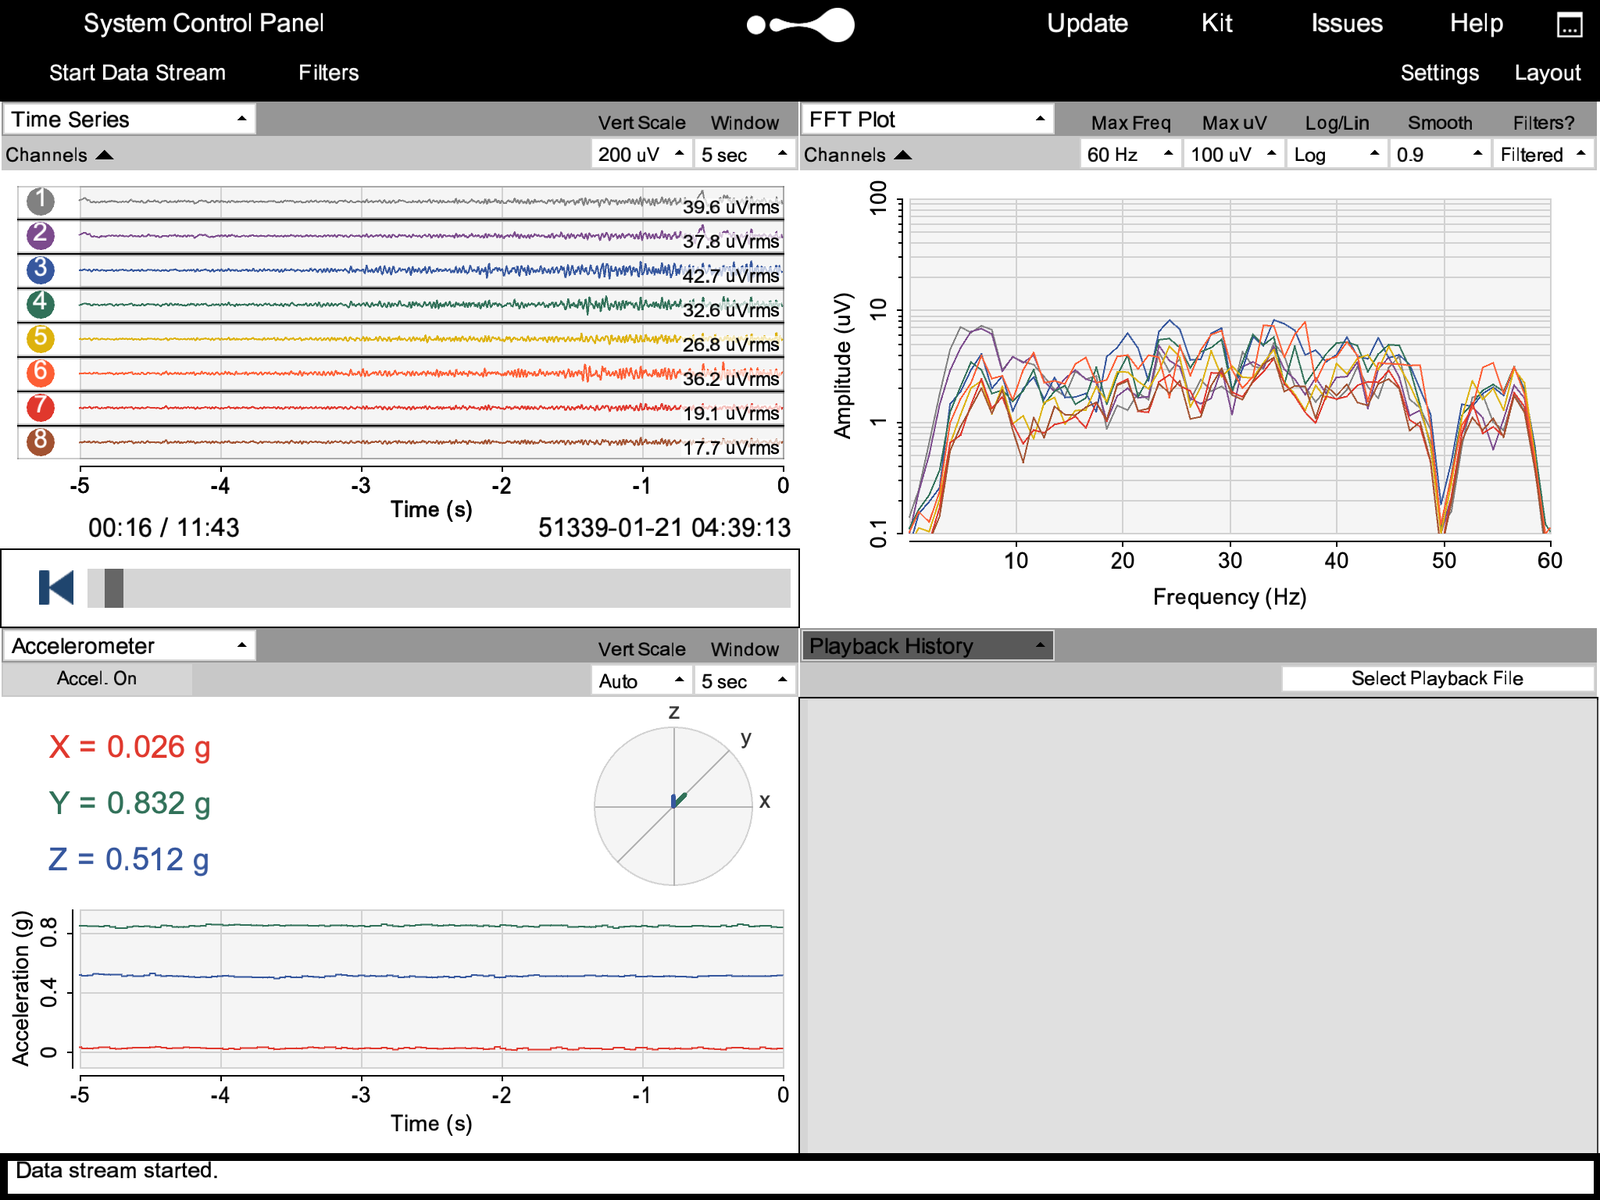
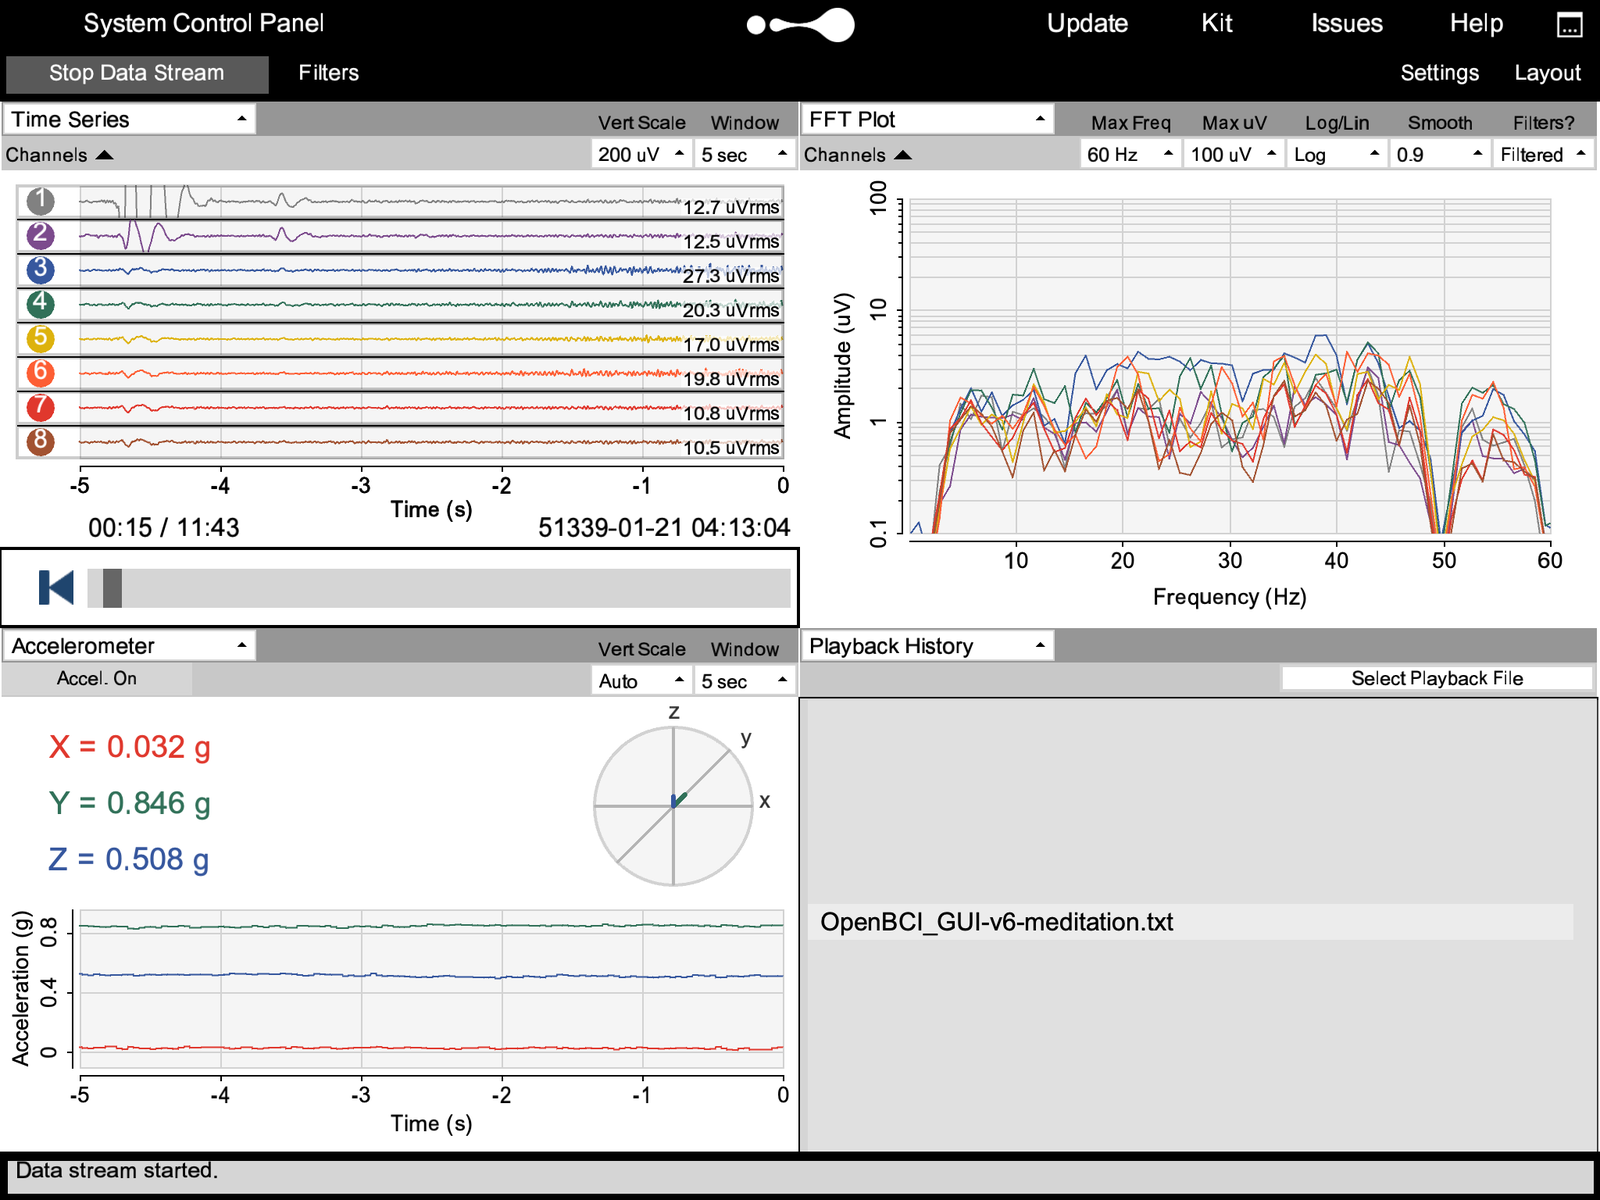
Release 0.2.2 Beta: centred layered starter page, 12 s cycle
The starter page is now centred on the window and painted UNDER the interface.
An open data-source sub-panel covers it rather than pushing it aside, so the page
no longer slides right or shrinks when a sub-panel opens. The copy moved to a
fixed right-hand column, clear of the panel at its widest, so nothing is
truncated.

Cycle is 12 s (was 13.5 s), with every stage threshold rescaled.

README: screenshots and the starter GIF regenerated from this build; the fork
note moved to the end; starter section describes the layering.

diff --git a/README.md b/README.md
@@ -6,16 +6,8 @@
 
 <p align="center">
   Visualise and record EEG from OpenBCI-compatible hardware<br>
-  <strong>v0.2.1 Beta &middot; November 2026</strong>
+  <strong>v0.2.2 Beta &middot; November 2026</strong>
 </p>
-
-> **Fork note.** This is a BROADMIND build of the OpenBCI GUI. The application is upstream
-> [`OpenBCI/OpenBCI_GUI`](https://github.com/OpenBCI/OpenBCI_GUI), MIT-licensed, and nothing in the
-> acquisition, protocol or board-support code was changed. This build differs in presentation:
-> the BROADMIND brand system - black, white and one grey, set in Geometria where it is licensed and
-> installed and Arial otherwise - with functional colours (channel identity, error states)
-> deliberately preserved. Every upstream author credit and the licence are unchanged; see
-> [LICENSE](LICENSE).
 
 ---
 
@@ -70,8 +62,9 @@ this is the running app (13.5 s cycle):
   <img alt="The BROADMIND starter page: the headband lowers onto a head, eight contacts ink in, and a USB-C cable draws itself into a laptop" src="docs/design/starter-animation.gif" width="780">
 </p>
 
-Layout is responsive: with a data-source sub-panel open, the copy stacks above the schematic rather
-than overlapping it.
+The schematic is centred on the window and painted **underneath** the interface: an open
+data-source sub-panel covers it rather than pushing it aside, so the page never slides or shrinks.
+The copy sits in a fixed right-hand column, clear of the panel at its widest, so nothing is truncated.
 
 ## What are we doing?
 
@@ -220,3 +213,15 @@ MIT
 <p align="center">
   BROADMIND · <a href="https://broadmind.me">broadmind.me</a>
 </p>
+
+---
+
+## Fork note
+
+This is a BROADMIND build of the OpenBCI GUI. The application is upstream
+[`OpenBCI/OpenBCI_GUI`](https://github.com/OpenBCI/OpenBCI_GUI), MIT-licensed, and nothing in the
+acquisition, protocol or board-support code was changed. This build differs in presentation:
+the BROADMIND brand system - black, white and one grey, set in Geometria where it is licensed and
+installed and Arial otherwise - with functional colours (channel identity, error states)
+deliberately preserved. Every upstream author credit and the licence are unchanged; see
+[LICENSE](LICENSE).

diff --git a/CHANGELOG.md b/CHANGELOG.md
@@ -1,5 +1,17 @@
 # Changelog
 
+## 0.2.2 Beta - November 2026
+
+### Changed
+- Starter page cycle is **12 s** (was 13.5 s).
+- The schematic is now **centred on the window and painted underneath the interface**: an open
+  data-source sub-panel covers it instead of pushing it aside, so the page no longer slides right or
+  shrinks when a sub-panel opens. The copy sits in a fixed right-hand column, clear of the panel's
+  widest reach, so no text is truncated.
+- README screenshots and the starter-page GIF regenerated from this build; the fork note moved to
+  the end of the README.
+
+---
 ## 0.2.1 Beta - November 2026
 
 ### Added
